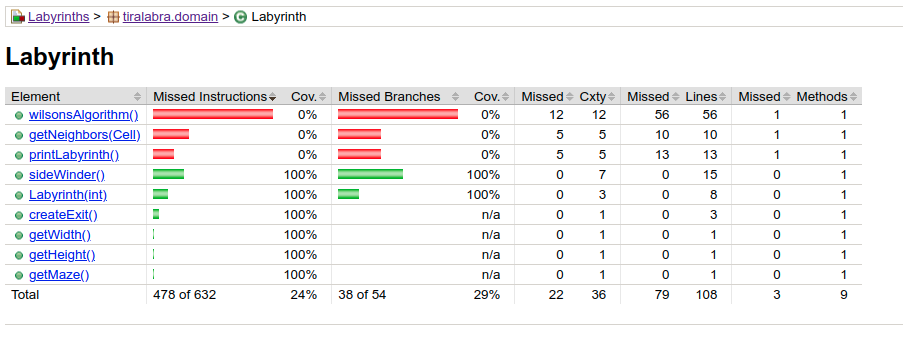
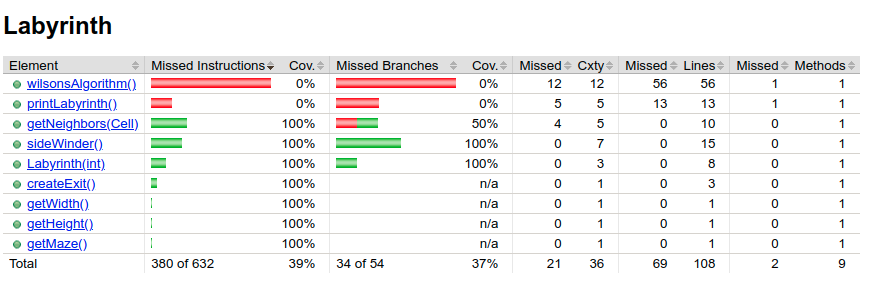
Add tests for the getNeighbors function

Changed region(s): [[0.0, 0.0, 1.0, 0.9645]]

diff --git a/Labyrinths/src/test/java/tiralabra/domain/LabyrinthTest.java b/Labyrinths/src/test/java/tiralabra/domain/LabyrinthTest.java
@@ -10,6 +10,7 @@ import static org.junit.Assert.*;
 import org.junit.Before;
 import org.junit.Test;
 
+import tiralabra.util.CellDir;
 import tiralabra.util.List;
 
 /**
@@ -121,5 +122,45 @@ public class LabyrinthTest {
         }
     
         //assertEquals(total, checked);
+    }
+    
+    /**
+     * Tests the getNeighbors method 
+     */
+    @Test
+    public void testGetNeighbors() {
+        
+        // Choose a cell somewhere in the middle so it has neighbors
+        // on all sides
+        Cell testCell = new Cell(3, 3);
+        
+        List<CellDir> testNeighbors  = lab.getNeighbors(testCell);
+        
+        List<CellDir> expected = new List<>();
+        expected.add(new CellDir(new Cell(4, 3), 1));
+        expected.add(new CellDir(new Cell(3, 2), 0));
+        expected.add(new CellDir(new Cell(3, 4), 2));
+        expected.add(new CellDir(new Cell(2, 3), 3));
+        
+        boolean containsbottom = testNeighbors.getIndex(0).getCell()
+                .compareTo(expected.getIndex(0).getCell());
+        
+        assertTrue(containsbottom);
+        
+        boolean containsleft = testNeighbors.getIndex(1).getCell()
+                .compareTo(expected.getIndex(1).getCell());
+        
+        assertTrue(containsleft);
+        
+        boolean containsright = testNeighbors.getIndex(2).getCell()
+                .compareTo(expected.getIndex(2).getCell());
+        
+        assertTrue(containsright);
+        
+        boolean containstop = testNeighbors.getIndex(3).getCell()
+                .compareTo(expected.getIndex(3).getCell());
+        
+        assertTrue(containstop);
+        
     }
 }

diff --git a/Labyrinths/src/main/java/tiralabra/domain/Labyrinth.java b/Labyrinths/src/main/java/tiralabra/domain/Labyrinth.java
@@ -79,16 +79,11 @@ public class Labyrinth {
     public List<CellDir> getNeighbors(Cell current) {
         List<CellDir> neighbors = new List<>();
         
-        // Has a top neighbor
-        if (current.getY() - 1 >= 0) {
-            neighbors.add(new CellDir(this.maze[current.getY() - 1][current.getX()], 3));
-
-        }
         // Has a bottom neighbor
         if (current.getY() + 1 < this.height) {
             neighbors.add(new CellDir(this.maze[current.getY() + 1][current.getX()], 1));
         }
-            
+        
         // Has a left neighbor
         if (current.getX() - 1 >= 0) {
             neighbors.add(new CellDir(this.maze[current.getY()][current.getX() - 1], 0));
@@ -97,6 +92,12 @@ public class Labyrinth {
         // Has a right neighbor
         if (current.getX() + 1 < this.width) {
             neighbors.add(new CellDir(this.maze[current.getY()][current.getX() + 1], 2));
+        }
+        
+        // Has a top neighbor
+        if (current.getY() - 1 >= 0) {
+            neighbors.add(new CellDir(this.maze[current.getY() - 1][current.getX()], 3));
+
         }
 
         return neighbors;
